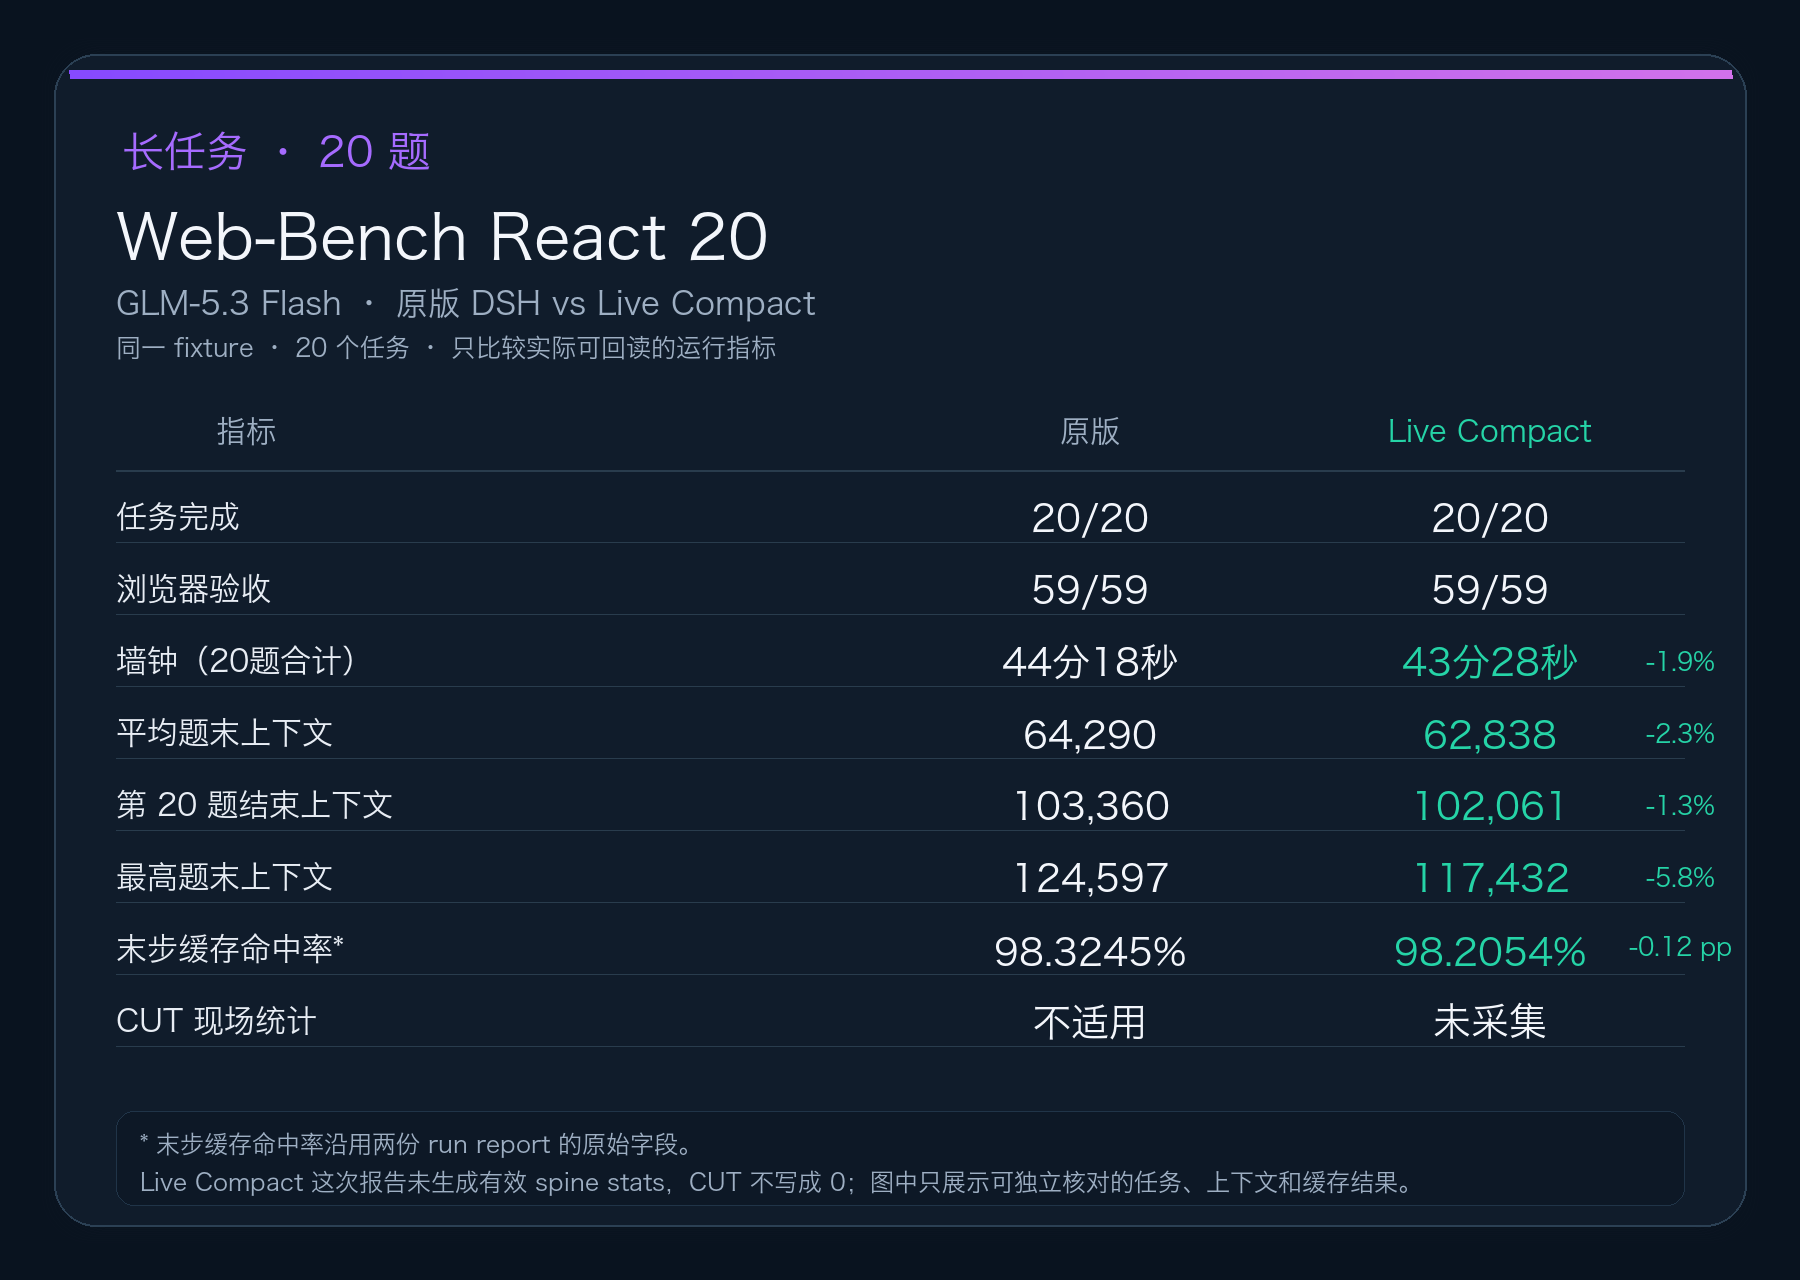
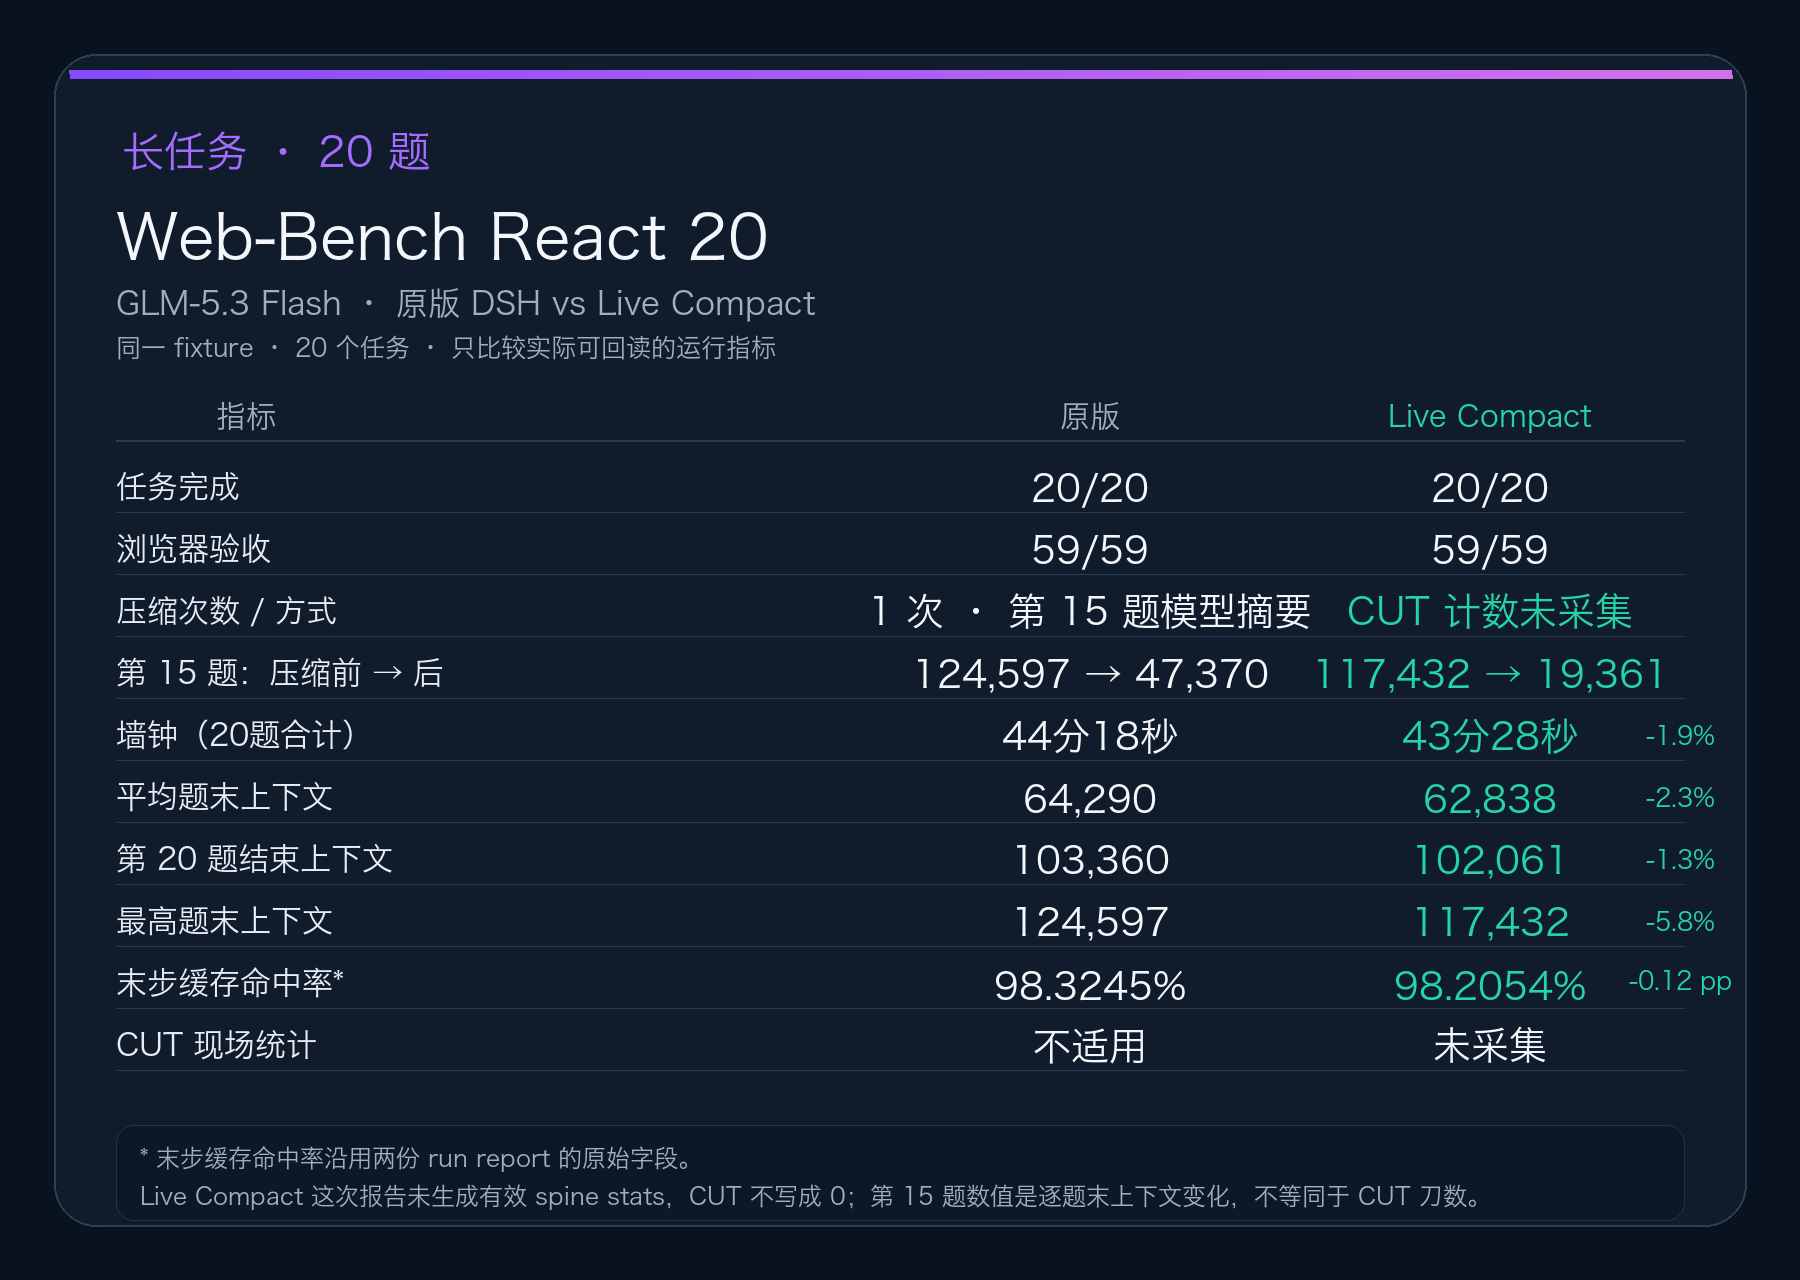
docs: show task 15 compression comparison

diff --git a/docs/benchmark-1.1.7-webbench-react20.py b/docs/benchmark-1.1.7-webbench-react20.py
@@ -54,6 +54,8 @@ def svg_text(x, y, text, size, fill, anchor='start', weight=400):
 rows = [
     ('任务完成', '20/20', '20/20', ''),
     ('浏览器验收', '59/59', '59/59', ''),
+    ('压缩次数 / 方式', '1 次 · 第 15 题模型摘要', 'CUT 计数未采集', ''),
+    ('第 15 题：压缩前 → 后', '124,597 → 47,370', '117,432 → 19,361', ''),
     ('墙钟（20题合计）', fmt_sec(2657.8), fmt_sec(2608.4), '-1.9%'),
     ('平均题末上下文', '64,290', '62,838', '-2.3%'),
     ('第 20 题结束上下文', '103,360', '102,061', '-1.3%'),
@@ -84,14 +86,14 @@ d.text((left, 205), 'Web-Bench React 20', font=F_TITLE, fill=WHITE)
 d.text((left, 286), 'GLM-5.3 Flash · 原版 DSH vs Live Compact', font=F_SUB, fill=MUTED)
 d.text((left, 335), '同一 fixture · 20 个任务 · 只比较实际可回读的运行指标', font=F_SMALL, fill=MUTED)
 # headers
-header_y = 430
+header_y = 415
 centered(d, (left+130, header_y), '指标', F_HEAD, MUTED)
 centered(d, (center_o, header_y), '原版', F_HEAD, MUTED)
 centered(d, (center_l, header_y), 'Live Compact', F_HEAD, GREEN)
-d.line((left, 470, W-left, 470), fill=GRID, width=2)
+d.line((left, 440, W-left, 440), fill=GRID, width=2)
 
-row_y = 500
-row_h = 72
+row_y = 470
+row_h = 62
 for idx, (label, original, live, delta) in enumerate(rows):
     y = row_y + idx*row_h
     d.line((left, y+42, W-left, y+42), fill=GRID, width=1)
@@ -102,9 +104,9 @@ for idx, (label, original, live, delta) in enumerate(rows):
         centered(d, (center_l+190, y+16), delta, F_SMALL, GREEN)
 # footnote panel
 note_y = row_y + len(rows)*row_h + 35
-rounded(d, (left, note_y, W-left, H-75), 18, '#0d1826', '#203448', 1)
+rounded(d, (left, note_y, W-left, H-60), 18, '#0d1826', '#203448', 1)
 d.text((left+24, note_y+20), '* 末步缓存命中率沿用两份 run report 的原始字段。', font=F_NOTE, fill=MUTED)
-d.text((left+24, note_y+58), 'Live Compact 这次报告未生成有效 spine stats，CUT 不写成 0；图中只展示可独立核对的任务、上下文和缓存结果。', font=F_NOTE, fill=MUTED)
+d.text((left+24, note_y+58), 'Live Compact 这次报告未生成有效 spine stats，CUT 不写成 0；第 15 题数值是逐题末上下文变化，不等同于 CUT 刀数。', font=F_NOTE, fill=MUTED)
 # save
 im.save(OUT, quality=95)
 
@@ -115,12 +117,12 @@ parts = [f'<svg xmlns="http://www.w3.org/2000/svg" width="{W}" height="{H}" view
          f'<rect x="72" y="70" width="{W-144}" height="8" rx="4" fill="url(#top)"/>',
          '<defs><linearGradient id="top" x1="0" x2="1"><stop stop-color="#874aff"/><stop offset="1" stop-color="#d47bff"/></linearGradient></defs>']
 parts += [svg_text(left+160, 165, '长任务 · 20 题', 42, PURPLE, 'middle', 600), svg_text(left, 258, 'Web-Bench React 20', 62, WHITE, 'start', 700), svg_text(left, 320, 'GLM-5.3 Flash · 原版 DSH vs Live Compact', 32, MUTED), svg_text(left, 360, '同一 fixture · 20 个任务 · 只比较实际可回读的运行指标', 25, MUTED)]
-parts += [svg_text(left+130, 446, '指标', 30, MUTED, 'middle', 600), svg_text(center_o, 446, '原版', 30, MUTED, 'middle', 600), svg_text(center_l, 446, 'Live Compact', 30, GREEN, 'middle', 600), f'<line x1="{left}" y1="470" x2="{W-left}" y2="470" stroke="{GRID}" stroke-width="2"/>']
+parts += [svg_text(left+130, 446, '指标', 30, MUTED, 'middle', 600), svg_text(center_o, 446, '原版', 30, MUTED, 'middle', 600), svg_text(center_l, 446, 'Live Compact', 30, GREEN, 'middle', 600), f'<line x1="{left}" y1="440" x2="{W-left}" y2="440" stroke="{GRID}" stroke-width="2"/>']
 for idx, (label, original, live, delta) in enumerate(rows):
     y = row_y + idx*row_h
     parts += [f'<line x1="{left}" y1="{y+42}" x2="{W-left}" y2="{y+42}" stroke="{GRID}"/>', svg_text(left, y+15, label, 31, TEXT), svg_text(center_o, y+30, original, 38, WHITE, 'middle', 500), svg_text(center_l, y+30, live, 38, GREEN if live not in ('20/20','59/59','未采集') else WHITE, 'middle', 600)]
     if delta: parts.append(svg_text(center_l+190, y+30, delta, 25, GREEN, 'middle', 500))
-parts += [f'<rect x="{left}" y="{note_y}" width="{W-2*left}" height="{H-75-note_y}" rx="18" fill="#0d1826" stroke="#203448"/>', svg_text(left+24, note_y+48, '* 末步缓存命中率沿用两份 run report 的原始字段。', 24, MUTED), svg_text(left+24, note_y+86, 'Live Compact 这次报告未生成有效 spine stats，CUT 不写成 0；图中只展示可独立核对的任务、上下文和缓存结果。', 24, MUTED), '</svg>']
+parts += [f'<rect x="{left}" y="{note_y}" width="{W-2*left}" height="{H-60-note_y}" rx="18" fill="#0d1826" stroke="#203448"/>', svg_text(left+24, note_y+48, '* 末步缓存命中率沿用两份 run report 的原始字段。', 24, MUTED), svg_text(left+24, note_y+86, 'Live Compact 这次报告未生成有效 spine stats，CUT 不写成 0；第 15 题数值是逐题末上下文变化，不等同于 CUT 刀数。', 24, MUTED), '</svg>']
 SVG.write_text('\n'.join(parts))
 print(OUT)
 print(SVG)

diff --git a/docs/benchmarks.md b/docs/benchmarks.md
@@ -20,6 +20,8 @@
 
 | 指标 | 原版 DSH | Live Compact |
 |---|---:|---:|
+| 压缩次数 / 方式 | 1 次，第 15 题模型摘要 | CUT 计数未采集 |
+| 第 15 题：压缩前 → 后 | 124,597 → 47,370 | 117,432 → 19,361 |
 | 墙钟（20 题合计） | 44 分 18 秒 | 43 分 28 秒（低 1.9%） |
 | 平均题末上下文 | 64,290 | 62,838（低 2.3%） |
 | 第 20 题结束上下文 | 103,360 | 102,061（低 1.3%） |
@@ -27,7 +29,7 @@
 | 末步缓存命中率 | 98.3245% | 98.2054%（低 0.12 个百分点） |
 | CUT 现场统计 | 不适用 | 本次报告未采集 |
 
-CUT 统计没有写成 0：这次插件报告没有有效 `spine-stats`/cut 文件，图和表只展示两份报告都有的可回读字段。完整结构化数据见 [`benchmark-1.1.7-webbench-react20.json`](benchmark-1.1.7-webbench-react20.json)。这组受控对照不替代真实 TUI、Windows 或原用户现场验收。
+CUT 统计没有写成 0：这次插件报告没有有效 `spine-stats`/cut 文件；第 15 题数值是逐题末上下文变化，不等同于 CUT 刀数。完整结构化数据见 [`benchmark-1.1.7-webbench-react20.json`](benchmark-1.1.7-webbench-react20.json)。这组受控对照不替代真实 TUI、Windows 或原用户现场验收。
 
 ## DSH Live Compact 历史实测
 
